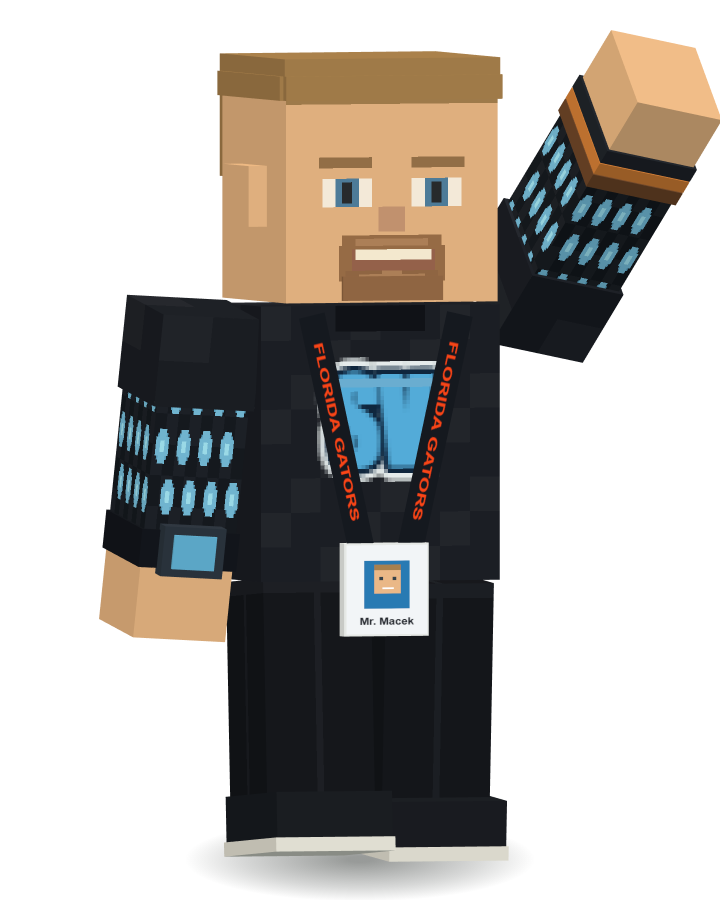
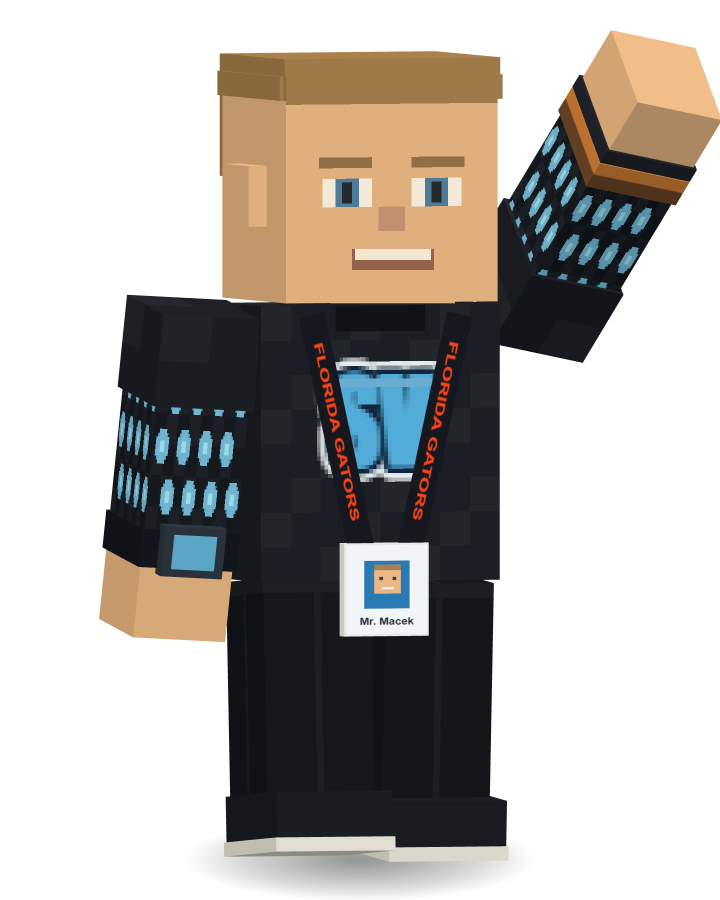
One professional look everywhere; Mr. Macek clean-shaven
The game's own title screen, Esc menu and play bar now match the main page:
the stone MYNECRAFT logo over the school, one dark glass panel with mode rows,
a gold PLAY beside a navy How to play, the six small teacher cards, quiet navy
for everything else, and one button style on the play bar (gold only for
Blocks and anything switched on). Phone (upright and sideways) and short-laptop
layouts included. IDs and JavaScript wiring are unchanged.

Mr. Macek has no beard: both face textures and both 3D chin pieces are removed,
and the lineup picture's chin is repainted to match.

Also commits the navy-and-gold inventory and main-page button edits and the
bookshelf recipe left uncommitted in this checkout earlier today.

Changed region(s): [[0.4583, 0.2489, 0.6417, 0.3422]]

diff --git a/game/start-menu.css b/game/start-menu.css
@@ -586,32 +586,37 @@ html body #start #tryStatus:empty { display: none; }
 /* Large, named block choices use the same textures as the world and hotbar. */
 #inventoryOverlay { position: fixed; inset: 0; z-index: 20; display: grid; place-items: center; padding: 16px; background: #071019d9; overflow-y: auto; }
 #inventoryOverlay[hidden] { display: none; }
-.inventory-sheet { box-sizing: border-box; width: min(780px, 100%); max-height: calc(100dvh - 32px); overflow-y: auto; padding: 24px; border: 1px solid #658aa7; border-radius: 16px; background: #1b2a36; color: #f4f8fc; box-shadow: 0 20px 80px #0008; font: 15px/1.45 system-ui, sans-serif; }
-.inventory-sheet h2 { margin: 0 0 6px; font-size: 28px; }
-.inventory-head { position: sticky; top: -24px; z-index: 2; display: flex; align-items: center; justify-content: space-between; gap: 12px; margin: -24px -24px 6px; padding: 18px 24px 8px; background: #1b2a36; border-radius: 16px 16px 0 0; }
+.inventory-sheet { box-sizing: border-box; width: min(840px, 100%); max-height: calc(100dvh - 32px); overflow-y: auto; padding: 24px; border: 2px solid #3a5673; border-radius: 18px; background: #101c27; color: #f4f8fc; box-shadow: 0 24px 80px rgba(0,0,0,.75); font: 15px/1.45 system-ui, sans-serif; }
+.inventory-sheet h2 { margin: 0 0 6px; font-size: 26px; font-weight: 800; letter-spacing: .02em; color: #ffd27a; }
+.inventory-head { position: sticky; top: -24px; z-index: 2; display: flex; align-items: center; justify-content: space-between; gap: 12px; margin: -24px -24px 10px; padding: 18px 24px 12px; background: #101c27; border-bottom: 1px solid #23374a; border-radius: 16px 16px 0 0; }
 .inventory-head h2 { margin: 0; }
-.inventory-close { flex: none; width: 48px; height: 48px; border: 2px solid #9cc5df; border-radius: 12px; background: #c4e5fa; color: #172d3c; font: 700 22px/1 system-ui, sans-serif; cursor: pointer; }
+.inventory-close { flex: none; width: 44px; height: 44px; border: 2px solid #fff1c4; border-bottom-width: 4px; border-radius: 12px; background: linear-gradient(180deg,#ffd27a,#f2b544); color: #1a1204; font: 800 20px/1 system-ui, sans-serif; cursor: pointer; transition: transform .1s; }
+.inventory-close:hover { filter: brightness(1.08); transform: translateY(-1px); }
+.inventory-close:active { transform: translateY(2px); border-bottom-width: 2px; }
 .inventory-close:focus-visible { outline: 3px solid #fff; outline-offset: 3px; }
-.inventory-sheet p { margin: 0 0 18px; color: #cbdce9; }
-.inventory-grid { display: grid; grid-template-columns: repeat(7, minmax(0, 1fr)); gap: 10px; }
-.inventory-choice { display: flex; flex-direction: column; align-items: center; justify-content: center; gap: 4px; min-height: 118px; padding: 8px 4px; border: 2px solid #536d81; border-radius: 10px; background: #293e4e; color: #f4f8fc; cursor: pointer; font: inherit; }
-.inventory-choice strong { font-size: 12px; }
-.inventory-count { color: #b3d7e9; font-size: 11px; }
-.inventory-choice:hover { border-color: #b9e1fa; background: #34536a; }
-.inventory-choice[aria-pressed="true"] { border-color: #a5e5b9; background: #264837; }
-.inventory-choice:disabled { opacity: .48; cursor: default; }
+.inventory-sheet p { margin: 0 0 16px; color: #cbdce9; font-size: 13.5px; }
+.inventory-grid { display: grid; grid-template-columns: repeat(7, minmax(0, 1fr)); gap: 8px; }
+.inventory-choice { display: flex; flex-direction: column; align-items: center; justify-content: center; gap: 4px; min-height: 110px; padding: 8px 4px; border: 2px solid #283e52; border-radius: 12px; background: #162737; color: #f4f8fc; cursor: pointer; font: inherit; transition: all .12s ease; }
+.inventory-choice strong { font-size: 11.5px; font-weight: 700; }
+.inventory-count { color: #8ec3df; font-size: 11px; font-weight: 600; }
+.inventory-choice:hover { border-color: #ffd27a; background: #20364c; transform: translateY(-2px); box-shadow: 0 4px 12px rgba(0,0,0,.35); }
+.inventory-choice[aria-pressed="true"] { border-color: #52c27b; background: #163625; box-shadow: 0 0 0 1px #52c27b; }
+.inventory-choice:disabled { opacity: .4; cursor: default; transform: none; }
 .inventory-choice:focus-visible, .inventory-back:focus-visible { outline: 3px solid #fff; outline-offset: 3px; }
-.inventory-sheet .inventory-hint { margin: 16px 0 12px; font-size: 13px; }
-.inventory-back { display: block; min-height: 44px; margin-left: auto; padding: 10px 18px; border: 1px solid #9cc5df; border-radius: 8px; background: #c4e5fa; color: #172d3c; font: 700 14px system-ui, sans-serif; cursor: pointer; }
-.crafting-panel,.animal-panel { margin: 18px 0; padding: 16px; border: 1px solid #709082; border-radius: 12px; background: #182f2e; }
+.inventory-sheet .inventory-hint { margin: 16px 0 12px; font-size: 12.5px; color: #a4c2d9; }
+.inventory-back { display: block; min-height: 44px; margin-left: auto; padding: 10px 20px; border: 2px solid #fff1c4; border-bottom-width: 4px; border-radius: 10px; background: linear-gradient(180deg,#ffd27a,#f2b544); color: #1a1204; font: 800 14px system-ui, sans-serif; cursor: pointer; }
+.inventory-back:hover { filter: brightness(1.08); transform: translateY(-1px); }
+.inventory-back:active { transform: translateY(2px); border-bottom-width: 2px; }
+.crafting-panel,.animal-panel { margin: 18px 0; padding: 16px; border: 1.5px solid #2a455c; border-radius: 14px; background: #132433; }
 .crafting-panel[hidden] { display: none; }
-.crafting-panel h3,.animal-panel h3 { margin: 0 0 6px; }
+.crafting-panel h3,.animal-panel h3 { margin: 0 0 6px; font-size: 16px; font-weight: 700; color: #eaf3fa; }
 .crafting-grid { display: grid; grid-template-columns: repeat(auto-fit,minmax(170px,1fr)); gap: 8px; }
-.craft-choice { min-height: 48px; padding: 10px; border: 1px solid #739b8c; border-radius: 8px; background: #274f43; color: #f1fff7; font: 600 13px/1.4 system-ui,sans-serif; text-align: left; cursor: pointer; }
-.craft-choice:disabled { opacity: .48; cursor: default; }
+.craft-choice { min-height: 48px; padding: 10px 12px; border: 1.5px solid #365773; border-radius: 10px; background: #1d354b; color: #f1fff7; font: 600 13px/1.4 system-ui,sans-serif; text-align: left; cursor: pointer; transition: all .12s; }
+.craft-choice:hover:not(:disabled) { border-color: #ffd27a; background: #264763; transform: translateY(-1px); }
+.craft-choice:disabled { opacity: .45; cursor: default; }
 .craft-choice:focus-visible { outline: 3px solid white; outline-offset: 2px; }
-.inventory-sheet #craftingStatus { margin: 12px 0 0; color: #b7efcd; }
-.inventory-sheet .inventory-tip { margin: 10px 0 0; font-size: 13px; color: #d9efe3; }
+.inventory-sheet #craftingStatus { margin: 12px 0 0; color: #94eab4; font-weight: 600; font-size: 13px; }
+.inventory-sheet .inventory-tip { margin: 10px 0 0; font-size: 12.5px; color: #a4c2d9; }
 /* The Little Library: big readable pages, chunky buttons, covers like real books. */
 #libraryOverlay { position: fixed; inset: 0; z-index: 30; display: grid; place-items: center; padding: 16px; background: #120d08e0; overflow-y: auto; }
 #libraryOverlay[hidden] { display: none; }
@@ -813,8 +818,8 @@ html body #hotbar {
 }
 html body #hotbar button { position:relative; flex:0 0 46px; width:46px; height:46px; display:flex; align-items:flex-end; justify-content:flex-end; color:#fff; font:700 11px Fredoka,system-ui,sans-serif; padding:2px; border:2px solid #7d96aa; border-radius:9px; background:#2b4052; box-shadow:inset 0 1px 0 #ffffff30; }
 html body #coordinates {
-  left:50% !important; bottom:91px !important; right:auto !important; top:auto !important;
-  transform:translateX(-50%) !important; padding:5px 12px; border:1px solid rgba(142,197,255,.35); border-radius:999px;
+  left:50% !important; bottom:80px !important; right:auto !important; top:auto !important;
+  transform:translateX(-50%) !important; padding:5px 14px; border:1px solid rgba(142,197,255,.35); border-radius:999px;
   background:#112233eb; color:#f4f7fa; text-align:center; max-width:calc(100vw - 30px);
   font:600 13px/1.4 Fredoka,system-ui,sans-serif; text-shadow:none;
 }
@@ -941,3 +946,149 @@ html body #start #howToPlay:not([open]) { display:none; }
 html body #start .menu-extra-content { padding:0 12px 12px; }
 html body #start .menu-extra-content > details { margin-top:10px; padding:10px; border:1px solid #4c6880; border-radius:10px; }
 html body #start .menu-extra-content summary { min-height:44px; display:flex; align-items:center; cursor:pointer; }
+
+/* ---- October 29: one look everywhere ----
+   Kenny: "make Minecraft professional looking". The game's own title screen, the
+   Esc menu and the play bar now match the main page: the stone MYNECRAFT logo over
+   the school, one dark glass panel, a gold PLAY, and quiet navy for everything else.
+   Gold means "the main thing" or "chosen"; markup IDs and controls are unchanged. */
+html body #start { background: linear-gradient(180deg, rgba(11, 26, 46, .28) 0%, rgba(11, 26, 46, .5) 34%, rgba(9, 21, 38, .9) 68%, #0b1a2e 100%), url("assets/ec-title-bg.jpg") center 30% / cover no-repeat, #0b1a2e; }
+html body #start:has(#staffChoices) .start-shell { width: min(600px, 100%); gap: 12px; }
+html body #start .hero-row { display: flex; flex-direction: column; align-items: stretch; gap: 10px; }
+
+/* The main page's logo: chunky stone letters, EC EDITION underneath, a yellow splash. */
+html body #start .hero-brand { position: relative; overflow: visible; align-self: center; width: fit-content; max-width: 100%; display: flex; flex-direction: column; align-items: center; gap: 4px; padding: 4px 0 2px; border: 0; border-radius: 0; background: none; box-shadow: none; text-align: center; }
+html body #start .hero-brand::before, html body #start .hero-brand::after { content: none; display: none; }
+html body #start .hero-brand .block-title { display: block; margin: 0; font: 400 clamp(40px, 7.2vw, 78px)/1 Bungee, Impact, sans-serif; letter-spacing: .03em; color: inherit; -webkit-text-stroke: 0; text-shadow: none; }
+html body #start .block-title .logo { position: relative; display: inline-block; isolation: isolate; padding: 0 .06em .16em; }
+html body #start .block-title .logo::before { content: attr(data-text); position: absolute; inset: 0 .06em .16em; z-index: -1; color: #2e2e2e; -webkit-text-stroke: .1em #121212; text-shadow: 0 .035em 0 #3b3b3b, 0 .07em 0 #333, 0 .105em 0 #2b2b2b, 0 .14em 0 #222, 0 .2em .16em rgba(0, 0, 0, .55); }
+html body #start .block-title .face { display: block; color: transparent; background: repeating-conic-gradient(rgba(0, 0, 0, .07) 0 25%, rgba(255, 255, 255, .05) 0 50%) 0 0 / .12em .12em, linear-gradient(180deg, #f4f4f4 0%, #dadada 24%, #bcbcbc 50%, #9e9e9e 74%, #858585 100%); -webkit-background-clip: text; background-clip: text; -webkit-text-stroke: .03em #1a1a1a; }
+html body #start .hero-brand .edition { margin: 0; padding: 0 0 0 .34em; border: 0; border-radius: 0; background: none; color: #f1efe8; font: 400 clamp(14px, 1.7vw, 19px)/1 Bungee, Impact, sans-serif; letter-spacing: .34em; text-shadow: 0 2px 0 #151515, 0 0 12px rgba(0, 0, 0, .6); }
+html body #start .hero-brand .hero-tagline { position: absolute; left: 76%; top: 60%; display: block; margin: 0; padding: 0; border: 0; border-radius: 0; background: none; box-shadow: none; color: #ffff4f; font: 700 clamp(13px, 1.5vw, 19px)/1.1 Fredoka, system-ui, sans-serif; white-space: nowrap; text-shadow: 2px 2px 0 #3f3f12, 0 0 8px rgba(0, 0, 0, .45); transform: rotate(-14deg); transform-origin: 0 50%; animation: mc-splash 1.1s ease-in-out infinite alternate; pointer-events: none; }
+@keyframes mc-splash { from { transform: rotate(-14deg) scale(1); } to { transform: rotate(-14deg) scale(1.07); } }
+@media (prefers-reduced-motion: reduce) { html body #start .hero-brand .hero-tagline { animation: none; } }
+
+/* One dark glass panel: the question, three mode rows, PLAY beside How to play. */
+html body #start .hero-play { display: grid; grid-template-columns: minmax(0, 1.35fr) minmax(0, 1fr); gap: 8px 12px; align-content: start; padding: clamp(12px, 1.8vw, 18px); border: 2px solid rgba(154, 216, 255, .35); border-radius: 24px; background: linear-gradient(180deg, rgba(14, 32, 56, .92), rgba(9, 21, 38, .96)); backdrop-filter: blur(14px); -webkit-backdrop-filter: blur(14px); box-shadow: 0 26px 64px rgba(0, 0, 0, .6), inset 0 1px 0 rgba(255, 255, 255, .18); }
+html body #start .hero-play > * { grid-column: 1 / -1; }
+html body #start .hero-play > #enter { grid-column: 1; }
+html body #start .hero-play > #howToPlayOpen { grid-column: 2; }
+html body #start .hero-step { margin: 0; color: #ffd27a; font: 600 18px/1.2 Fredoka, system-ui, sans-serif; letter-spacing: .02em; text-align: center; }
+html body #start .mode-cards { display: flex; flex-direction: column; gap: 6px; }
+html body #start .mode-card { display: grid; grid-template-columns: 50px minmax(0, 1fr) 32px; grid-template-areas: "icon title go" "icon sub go"; column-gap: 12px; row-gap: 1px; align-items: center; justify-items: start; min-height: 60px; padding: 6px 12px; border: 3px solid #4a6a86; border-bottom-width: 5px; border-radius: 16px; background: rgba(29, 51, 70, .94); color: #f4f1e8; text-align: left; font-family: Fredoka, system-ui, sans-serif; cursor: pointer; transition: background-color .15s, border-color .15s, transform .15s; }
+html body #start .mode-card .icon { grid-area: icon; display: grid; place-items: center; width: 48px; height: 48px; border-radius: 12px; background: #0e2238; font-size: 0; }
+html body #start .mode-card .icon svg { display: block; width: 34px; height: 34px; }
+html body #start .mode-card strong { grid-area: title; align-self: end; font: 700 20px/1.1 Fredoka, system-ui, sans-serif; }
+html body #start .mode-card small { grid-area: sub; align-self: start; color: #b9cfe0; font: 600 13.5px/1.15 Fredoka, system-ui, sans-serif; }
+html body #start .mode-card::after { content: "›"; grid-area: go; display: grid; place-items: center; width: 30px; height: 30px; border-radius: 50%; color: #9cc0dc; font: 700 20px/1 Fredoka, system-ui, sans-serif; }
+html body #start .mode-card[aria-checked="true"] { background: #ffd27a; border-color: #fff1b8; border-bottom-color: #b98a20; color: #142b42; }
+html body #start .mode-card[aria-checked="true"] .icon { background: #fff3cf; }
+html body #start .mode-card[aria-checked="true"] small { color: #3d2f0c; }
+html body #start .mode-card[aria-checked="true"]::after { content: "✓"; background: #142b42; color: #ffd27a; font-size: 18px; }
+html body #start .mode-card:focus-visible { outline: 3px solid #fff; outline-offset: 3px; }
+@media (hover: hover) { html body #start .mode-card:hover { transform: translateY(-2px); } html body #start .mode-card:hover:not([aria-checked="true"]) { background: #26445c; border-color: #8fd3ff; } }
+html body #start .mode-card:active { transform: translateY(1px); }
+html body #start .hero-play #enter { display: flex; align-items: center; justify-content: center; gap: 12px; min-height: 68px; margin: 4px 0 0; border: 3px solid #fff1c4; border-radius: 18px; background: linear-gradient(180deg, #ffd27a, #f2b544); color: #1a1405; font: 400 clamp(24px, 3.2vw, 34px)/1 Bungee, Impact, sans-serif; letter-spacing: .08em; box-shadow: 0 8px 0 #9a6a12, 0 18px 34px rgba(242, 181, 68, .35); transition: transform .12s, box-shadow .12s; }
+html body #start .hero-play #enter:hover { background: linear-gradient(180deg, #ffd27a, #f2b544); transform: translateY(-2px); box-shadow: 0 10px 0 #9a6a12, 0 22px 40px rgba(242, 181, 68, .45); }
+html body #start .hero-play #enter:active { transform: translateY(5px); box-shadow: 0 3px 0 #9a6a12, 0 10px 20px rgba(242, 181, 68, .3); }
+html body #start .howto-open { display: flex; align-items: center; justify-content: center; gap: 10px; min-height: 68px; margin: 4px 0 0; border: 3px solid #648fb5; border-radius: 18px; background: linear-gradient(180deg, #1b385c, #10243e); color: #f0f7ff; font: 700 clamp(17px, 2vw, 21px)/1.1 Fredoka, system-ui, sans-serif; letter-spacing: .02em; box-shadow: 0 8px 0 #091729, 0 14px 28px rgba(0, 0, 0, .45); animation: none; transition: transform .12s; }
+html body #start .howto-open .q { flex: none; display: grid; place-items: center; width: 30px; height: 30px; border-radius: 50%; background: #ffd27a; color: #10243e; font: 700 18px Fredoka, system-ui, sans-serif; }
+html body #start .howto-open:hover { background: linear-gradient(180deg, #1b385c, #10243e); border-color: #8ec0ea; color: #fff; filter: brightness(1.08); transform: translateY(-2px); }
+html body #start .howto-open:active { transform: translateY(5px); box-shadow: 0 2px 0 #091729; }
+html body #start .playing-as { justify-content: center; margin: 4px 0 0; color: #d7ecff; font: 600 14px/1.2 Fredoka, system-ui, sans-serif; }
+html body #start .link-button { min-height: 34px; padding: 4px 14px; border: 2px solid rgba(154, 216, 255, .45); border-radius: 999px; background: rgba(21, 44, 70, .92); color: #e6f2ff; font: 700 13.5px Fredoka, system-ui, sans-serif; cursor: pointer; }
+html body #start .link-button:hover { border-color: #ffd27a; color: #fff; }
+html body #start .hero-play #startTip, html body #start .hero-play #modeHelp { margin: 0; color: #c2cbd9; font: 500 13px/1.35 Fredoka, system-ui, sans-serif; text-align: center; }
+body.has-played #start .hero-play .hero-mode { color: #ffd27a; font: 600 15px Fredoka, system-ui, sans-serif; }
+html body #start .hero-mode select { min-height: 44px; padding: 6px 12px; border: 2px solid #4a6a86; border-radius: 12px; background: #13283f; color: #f4f1e8; font: 600 15px Fredoka, system-ui, sans-serif; }
+
+/* Teachers: the main page's six small cards, gold when chosen. */
+html body #start .start-character-panel { padding: 0; border: 2px solid rgba(154, 216, 255, .35); border-radius: 20px; background: linear-gradient(180deg, rgba(14, 32, 56, .92), rgba(9, 21, 38, .96)); backdrop-filter: blur(14px); -webkit-backdrop-filter: blur(14px); box-shadow: 0 18px 44px rgba(0, 0, 0, .5), inset 0 1px 0 rgba(255, 255, 255, .14); }
+html body #start .start-character-panel > summary { padding: 10px 16px; color: #f4f1e8; font: 700 16px/1.2 Fredoka, system-ui, sans-serif; }
+html body #start .start-character-panel > summary span { color: #ffd27a; font: 600 13px Fredoka, system-ui, sans-serif; }
+html body #start #characterPanel > h2, html body #start #characterPanel > .character-note { display: none; }
+html body #start #staffChoices { grid-template-columns: repeat(6, minmax(0, 1fr)); gap: 6px; }
+html body #start .staff-choice { position: relative; display: flex; flex-direction: column; align-items: center; gap: 2px; padding: 4px 3px 6px; border: 2px solid rgba(132, 184, 224, .32); border-bottom-width: 4px; border-radius: 11px; background: rgba(21, 42, 66, .92); box-shadow: none; text-align: center; cursor: pointer; transition: transform .14s, border-color .14s, background-color .14s; }
+html body #start .staff-preview { width: auto; height: 74px; max-width: 100%; border: 1px solid rgba(173, 218, 250, .22); border-radius: 7px; background: radial-gradient(circle at 50% 35%, rgba(120, 198, 255, .24), rgba(9, 22, 38, .92)); }
+html body #start .staff-choice-name { display: block; max-width: 100%; }
+html body #start .staff-choice-name input { position: absolute; width: 1px; height: 1px; margin: 0; opacity: 0; }
+html body #start .staff-choice-name strong { display: block; max-width: 100%; overflow: hidden; color: #f4f9ff; font: 700 11.5px/1.15 Fredoka, system-ui, sans-serif; white-space: nowrap; text-overflow: ellipsis; }
+html body #start .staff-role { align-self: center; padding: 1px 6px; border: 0; border-radius: 999px; background: rgba(127, 226, 255, .16); color: #9be4ff; font: 700 9.5px/1.2 Fredoka, system-ui, sans-serif; letter-spacing: 0; }
+html body #start .staff-choice small { display: none; }
+html body #start .staff-choice:has(input:checked) { border-color: #fff5cc; border-bottom-color: #9e6d12; background: linear-gradient(180deg, #ffe49e, #f3b948); box-shadow: none; transform: translateY(-2px); }
+html body #start .staff-choice:has(input:checked) .staff-preview { border-color: rgba(20, 43, 66, .3); background: radial-gradient(circle at 50% 35%, rgba(255, 250, 224, .88), rgba(32, 64, 98, .9)); }
+html body #start .staff-choice:has(input:checked) .staff-choice-name strong { color: #142538; }
+html body #start .staff-choice:has(input:checked) .staff-role { background: #142538; color: #ffd875; }
+html body #start .staff-choice:has(input:focus-visible) { outline: 3px solid #fff; outline-offset: 2px; }
+@media (hover: hover) { html body #start .staff-choice:hover { transform: translateY(-2px); border-color: #9be4ff; background: rgba(27, 52, 80, .95); } html body #start .staff-choice:has(input:checked):hover { background: linear-gradient(180deg, #ffe49e, #f3b948); border-color: #fff5cc; } }
+html body #start:has(#staffChoices) #identityStatus { margin: 6px 0 10px; color: #d7ecff; font: 600 12.5px/1.2 Fredoka, system-ui, sans-serif; text-align: center; }
+
+/* Everything else: quiet navy rows and tiles, so the gold PLAY stays the one thing to press. */
+html body #start .quick-steps { gap: 8px; }
+html body #start .quick-step { padding: 10px 6px; border: 2px solid rgba(132, 184, 224, .28); border-bottom-width: 4px; border-radius: 14px; background: rgba(13, 30, 52, .88); box-shadow: none; color: #d7e6f3; font: 500 12.5px/1.3 Fredoka, system-ui, sans-serif; }
+html body #start .quick-step .quick-icon { font-size: 22px; }
+html body #start .quick-step strong { color: #ffd27a; font: 700 14px/1.1 Fredoka, system-ui, sans-serif; letter-spacing: .02em; }
+html body #start .menu-fold, html body #start .start-more > details, html body #start .start-more > details.how-to-play { border: 2px solid rgba(132, 184, 224, .3); border-bottom-width: 4px; border-radius: 16px; background: rgba(13, 30, 52, .9); box-shadow: 0 10px 26px rgba(0, 0, 0, .32); }
+html body #start .menu-fold > summary, html body #start .start-more > details > summary, html body #start .start-more > details.how-to-play > summary { min-height: 48px; padding: 10px 16px; border-radius: 14px; background: none; color: #f4f1e8; font: 700 16px/1.2 Fredoka, system-ui, sans-serif; }
+html body #start .menu-fold > summary span { color: #ffd27a; }
+html body #start .try-panel { padding: 0; }
+html body #start .try-grid { grid-template-columns: repeat(auto-fill, minmax(120px, 1fr)); gap: 8px; }
+html body #start .try-choice { min-height: 96px; padding: 10px; border: 2px solid rgba(132, 184, 224, .32); border-bottom-width: 4px; border-radius: 14px; background: rgba(21, 42, 66, .92); color: #f4f1e8; }
+html body #start .try-choice:hover { background: rgba(27, 52, 80, .95); border-color: #9be4ff; }
+html body #start .try-choice span { font-size: 26px; }
+html body #start .try-choice small { color: #b9cfe0; }
+
+/* The play bar: one button style, gold only for Blocks and for what is switched on. */
+html body #controls { border: 2px solid rgba(154, 216, 255, .3); border-radius: 18px; background: rgba(9, 21, 38, .88); backdrop-filter: blur(12px); -webkit-backdrop-filter: blur(12px); box-shadow: 0 10px 28px rgba(0, 0, 0, .45); }
+html body #controls #menuToggle, html body #controls #saveGame, html body #controls #helpToggle, html body #controls #flyToggle, html body #controls #questToggle, html body #controls #viewToggle { border: 2px solid rgba(132, 184, 224, .4); border-bottom-width: 4px; border-bottom-color: #0b1a2e; border-radius: 12px; background: linear-gradient(180deg, #1b385c, #13283f); color: #eef6ff; box-shadow: none; }
+html body #controls #flyToggle[aria-pressed="true"], html body #controls #questToggle[aria-pressed="true"] { border-color: #ffd27a; border-bottom-color: #9a6a12; background: linear-gradient(180deg, #24476f, #183552); color: #ffd27a; box-shadow: none; }
+html body #controls #inventoryToggle { border: 2px solid #fff1c4; border-bottom-width: 4px; border-bottom-color: #9a6a12; background: linear-gradient(180deg, #ffd27a, #f2b544); color: #1a1405; }
+html body #controls button:hover { filter: brightness(1.12); }
+html body #controls #saveStateIndicator { color: #b9d6c8; }
+html body #info { border: 1px solid rgba(154, 216, 255, .28); background: rgba(9, 21, 38, .82); color: #dbe8f5; }
+html body #hotbar { border: 2px solid rgba(154, 216, 255, .3); background: rgba(9, 21, 38, .88); }
+
+/* Phones: the panel stacks PLAY over How to play, and the teacher row wraps to three. */
+@media (max-width: 520px) {
+  html body #start .hero-play { grid-template-columns: 1fr; }
+  html body #start .hero-play > #enter, html body #start .hero-play > #howToPlayOpen { grid-column: 1; }
+  html body #start .hero-play #enter { min-height: 58px; }
+  html body #start .howto-open { min-height: 50px; }
+  html body #start .hero-brand .hero-tagline { left: 50%; top: 92%; transform: translateX(-50%) rotate(-4deg); animation: none; }
+  html body #start #staffChoices { grid-template-columns: repeat(3, minmax(0, 1fr)); }
+  html body #start .mode-card { min-height: 54px; }
+}
+/* Short laptop screens: a little tighter so PLAY stays in view without scrolling. */
+@media (max-height: 840px) and (min-width: 521px) {
+  html body #start .hero-brand .block-title { font-size: clamp(36px, 5.6vw, 64px); }
+  html body #start .mode-card { min-height: 54px; padding: 4px 12px; }
+  html body #start .mode-card .icon { width: 42px; height: 42px; }
+  html body #start .mode-card .icon svg { width: 30px; height: 30px; }
+  html body #start .hero-play #enter, html body #start .howto-open { min-height: 58px; }
+  html body #start .hero-play #startTip { display: none; }
+}
+/* The older ".start-header p" rule is more specific, so the panel's text lines restate their look here. */
+html body #start .start-header p.hero-step { max-width: none; margin: 0; color: #ffd27a; font: 600 18px/1.2 Fredoka, system-ui, sans-serif; letter-spacing: .02em; text-align: center; }
+html body #start .start-header p.hero-tagline { max-width: none; margin: 0; color: #ffff4f; font: 700 clamp(13px, 1.5vw, 19px)/1.1 Fredoka, system-ui, sans-serif; text-align: left; }
+html body #start .start-header p.playing-as { max-width: none; margin: 4px 0 0; color: #d7ecff; font: 600 14px/1.2 Fredoka, system-ui, sans-serif; text-align: center; }
+/* Phones: the splash sits on its own line under EC EDITION instead of over it. */
+@media (max-width: 520px) { html body #start .start-header p.hero-tagline { position: static; margin: 2px 0 0; transform: rotate(-3deg); animation: none; font-size: 15px; } }
+/* Phones held sideways: a smaller logo and the three modes side by side, so PLAY fits on screen. */
+@media (max-height: 500px) and (min-width: 521px) {
+  html body #start .hero-brand .block-title { font-size: 34px; }
+  html body #start .hero-brand .edition { font-size: 11px; }
+  html body #start .start-header p.hero-tagline { font-size: 12px; }
+  html body #start .hero-play { gap: 6px 10px; padding: 10px 12px; }
+  html body #start .start-header p.hero-step { font-size: 15px; }
+  html body #start .mode-cards { display: grid; grid-template-columns: repeat(3, minmax(0, 1fr)); gap: 6px; }
+  html body #start .mode-card { grid-template-columns: 34px minmax(0, 1fr); grid-template-areas: "icon title" "icon sub"; column-gap: 8px; min-height: 48px; padding: 4px 8px; border-width: 2px; border-bottom-width: 4px; border-radius: 12px; }
+  html body #start .mode-card::after { display: none; }
+  html body #start .mode-card .icon { width: 32px; height: 32px; border-radius: 8px; }
+  html body #start .mode-card .icon svg { width: 24px; height: 24px; }
+  html body #start .mode-card strong { font-size: 15px; }
+  html body #start .mode-card small { font-size: 11px; }
+  html body #start .hero-play #enter, html body #start .howto-open { min-height: 48px; margin-top: 2px; }
+  html body #start .hero-play #enter { font-size: 22px; box-shadow: 0 5px 0 #9a6a12; }
+  html body #start .howto-open { font-size: 16px; box-shadow: 0 5px 0 #091729; }
+  html body #start .hero-play #startTip, html body #start .hero-play #modeHelp { display: none; }
+}

diff --git a/game/mynecraft.html b/game/mynecraft.html
@@ -74,7 +74,7 @@
   #sleepTransition strong { font-size: clamp(28px, 5vw, 48px); }
   #sleepTransition p { color: #c8dcff; font-size: 18px; }
   #sleepTransition .sleep-moon { font-size: 64px; color: #ffe5a5; }
-  #activityInteract { position: fixed; z-index: 8; left: 50%; bottom: 92px; transform: translateX(-50%); min-height: 44px; padding: 10px 18px; border: 2px solid #132d47; border-radius: 8px; background: #f8d778; color: #142b42; font: 800 14px system-ui, sans-serif; cursor: pointer; }
+  #activityInteract { position: fixed; z-index: 8; left: 50%; bottom: 140px; transform: translateX(-50%); min-height: 44px; padding: 10px 18px; border: 2px solid #132d47; border-radius: 8px; background: #f8d778; color: #142b42; font: 800 14px system-ui, sans-serif; cursor: pointer; box-shadow: 0 4px 12px rgba(0,0,0,0.4); }
   #activityInteract[hidden], #btnInteract[hidden], body.touch-device #activityInteract { display: none; }
   #btnInteract { min-height: 52px; background: #f8d778; color: #142b42; max-width: 180px; }
   .pixel { image-rendering: pixelated; }
@@ -225,7 +225,7 @@
 .travel input{width:84px;padding:8px;border-radius:4px;font:16px system-ui;min-height:40px;box-sizing:border-box}
 .travel form button{min-height:40px}.travel summary{cursor:pointer;color:#90c5ec}.travel p{font-size:12px!important;margin:8px 0!important}
 </style>
-<link rel="stylesheet" href="start-menu.css?v=ui-20261029">
+<link rel="stylesheet" href="start-menu.css?v=ui-20261029-onelook4">
 </head>
 <body>
 <div id="hud"><div id="crosshair"></div></div>
@@ -255,16 +255,16 @@
     <header class="start-header start-hero">
       <div class="hero-row">
         <div class="hero-brand">
-          <h1 class="start-brand block-title" aria-label="MYnecraft">MYNECRAFT</h1>
+          <h1 class="start-brand block-title" aria-label="MYnecraft"><span class="logo" data-text="MYNECRAFT" aria-hidden="true"><span class="face">MYNECRAFT</span></span></h1>
           <p class="edition">EC EDITION</p>
-          <p class="hero-tagline">Your ideas. Your school. Your world.</p>
+          <p class="hero-tagline">Your school, built from blocks.</p>
         </div>
         <div class="hero-play">
           <p class="hero-step" id="modeTitle">How do you want to play?</p>
           <div class="mode-cards" role="radiogroup" aria-labelledby="modeTitle">
-            <button type="button" class="mode-card" data-mode="creative" role="radio" aria-checked="true"><span aria-hidden="true">🎨</span><strong>Creative</strong><small>Build anything</small></button>
-            <button type="button" class="mode-card" data-mode="survival" role="radio" aria-checked="false"><span aria-hidden="true">🌳</span><strong>Challenge</strong><small>Collect &amp; build</small></button>
-            <button type="button" class="mode-card" data-mode="hardcore" role="radio" aria-checked="false"><span aria-hidden="true">⛏</span><strong>Hardcore</strong><small>Craft &amp; unlock</small></button>
+            <button type="button" class="mode-card" data-mode="creative" role="radio" aria-checked="true"><span class="icon" aria-hidden="true"><svg viewBox="0 0 16 16" shape-rendering="crispEdges"><path fill="#241708" d="M1 0h14v1H1zM0 1h1v14H0zM15 1h1v14h-1zM1 15h14v1H1z"/><path fill="#8b5a34" d="M1 1h14v14H1z"/><path fill="#6e4526" d="M3 8h1v1H3zM6 10h2v1H6zM10 8h1v1h-1zM12 11h1v1h-1zM4 12h1v1H4zM9 13h2v1H9zM13 7h1v1h-1z"/><path fill="#5cbf3a" d="M1 1h14v4H1zM1 5h2v1H1zM4 5h1v2H4zM7 5h2v1H7zM11 5h1v2h-1zM13 5h2v1h-2z"/><path fill="#86e05a" d="M1 1h14v1H1zM2 2h2v1H2zM9 2h3v1H9z"/></svg></span><strong>Creative</strong><small>Build anything</small></button>
+            <button type="button" class="mode-card" data-mode="survival" role="radio" aria-checked="false"><span class="icon" aria-hidden="true"><svg viewBox="0 0 16 16" shape-rendering="crispEdges"><path fill="#1f5a22" d="M4 0h8v1H4zM2 1h2v1H2zM12 1h2v1h-2zM1 2h1v1H1zM14 2h1v1h-1zM0 3h1v5H0zM15 3h1v5h-1zM1 8h1v1H1zM14 8h1v1h-1zM2 9h2v1H2zM12 9h2v1h-2zM4 10h3v1H4zM9 10h3v1H9z"/><path fill="#3f9b3a" d="M4 1h8v1H4zM2 2h12v1H2zM1 3h14v5H1zM2 8h12v1H2zM4 9h8v1H4z"/><path fill="#62c24f" d="M4 2h3v1H4zM2 3h3v2H2zM9 3h2v1H9zM6 5h2v1H6z"/><path fill="#2c7a2e" d="M11 6h3v2h-3zM6 8h4v1H6zM3 7h2v1H3z"/><path fill="#7a4c2b" d="M7 10h2v5H7zM6 14h4v1H6z"/><path fill="#5a361d" d="M8 10h1v4H8z"/></svg></span><strong>Challenge</strong><small>Collect &amp; build</small></button>
+            <button type="button" class="mode-card" data-mode="hardcore" role="radio" aria-checked="false"><span class="icon" aria-hidden="true"><svg viewBox="0 0 16 16" shape-rendering="crispEdges"><path fill="#3b2412" d="M1 13h3v3H1zM2 12h3v3H2zM3 11h3v3H3zM4 10h3v3H4zM5 9h3v3H5zM6 8h3v3H6zM7 7h3v3H7zM8 6h3v3H8z"/><path fill="#a8713f" d="M2 13h1v2H2zM3 12h1v2H3zM4 11h1v2H4zM5 10h1v2H5zM6 9h1v2H6zM7 8h1v2H7zM8 7h1v2H8zM9 6h1v2H9z"/><path fill="#1d5f66" d="M4 0h8v1H4zM3 1h1v1H3zM12 1h1v1h-1zM2 2h1v2H2zM13 2h1v2h-1zM1 4h1v4H1zM14 4h1v4h-1zM2 4h3v1H2zM11 4h3v1h-3zM3 5h2v1H3zM11 5h2v1h-2z"/><path fill="#6fd3da" d="M4 1h8v3H4zM3 2h1v2H3zM12 2h1v2h-1zM2 5h1v3H2zM13 5h1v3h-1zM5 4h1v1H5zM10 4h1v1h-1z"/><path fill="#c6f3f5" d="M5 1h4v1H5zM3 2h1v1H3z"/></svg></span><strong>Hardcore</strong><small>Craft &amp; unlock</small></button>
           </div>
           <label class="hero-mode">Game mode <select id="mode"><option value="creative">Creative · build anything</option><option value="survival">Embrace the Challenge</option><option value="hardcore">Embrace the Challenge: Hardcore</option></select></label>
           <button class="btn" id="enter" type="button">▶ PLAY</button>
@@ -2367,10 +2367,7 @@ function faceForPerson(style){
       ctx.fillStyle='#eab887';ctx.fillRect(0,0,64,64);
       // One clean, straight hairline across the whole face: no side pieces hanging lower.
       ctx.fillStyle='#a68050';ctx.fillRect(0,0,64,8);
-      // Sandy-brown mustache and connected chin goatee framing his smile.
-      ctx.fillStyle='#9e714b';ctx.fillRect(17,45,30,4);ctx.fillRect(16,48,4,10);ctx.fillRect(44,48,4,10);
-      ctx.fillStyle='#966a47';ctx.fillRect(18,55,28,8);
-      ctx.fillStyle='#b5865e';ctx.fillRect(21,46,22,2);ctx.fillRect(22,56,20,5);ctx.fillRect(29,54,6,3);
+      // Kenny, Oct 29: no beard at all, so the chin and upper lip are plain skin.
       // The same flat face as the other teachers (brows, eyes, nose and smile all in the
       // same places), with Mr. Macek's own blue eyes. Nothing sticks out of the face.
       teacherFeatures(ctx,{brow:'#9a744c',iris:'#5181a3'});
@@ -2466,11 +2463,7 @@ function staffLook(style){
     ctx.fillStyle=isMacek?'#5181a3':isArt?'#4e7d44':style==='mcmichael'?'#4f6e82':'#453f37';ctx.fillRect(15,29,7,8);ctx.fillRect(42,29,7,8);
     ctx.fillStyle='#292d30';ctx.fillRect(17,30,3,6);ctx.fillRect(44,30,3,6);
     ctx.fillStyle='#cb9876';ctx.fillRect(28,37,8,7);
-    if(isMacek){
-      ctx.fillStyle='#9e714b';ctx.fillRect(17,45,30,4);ctx.fillRect(16,48,4,10);ctx.fillRect(44,48,4,10);
-      ctx.fillStyle='#966a47';ctx.fillRect(18,55,28,8);
-      ctx.fillStyle='#b5865e';ctx.fillRect(21,46,22,2);ctx.fillRect(22,56,20,5);ctx.fillRect(29,54,6,3);
-    }
+    // Mr. Macek has no beard (Kenny, Oct 29), so his chin stays plain skin here too.
     if(isMusic){
       ctx.fillStyle='#3a2e25';ctx.fillRect(7,43,50,18);ctx.fillRect(4,37,7,15);ctx.fillRect(53,37,7,15);
       ctx.fillStyle='#4b3c31';ctx.fillRect(15,44,34,4);ctx.fillRect(20,56,24,4);
@@ -2560,7 +2553,6 @@ function styleStaffPerson(npc,style){
     part(hair,'short back',.52,.25,.035,look.hair,0,1.807,-.25);
     // Sides end level with the front edge, so the hairline is one straight line all round.
     for(const side of [-1,1])part(hair,'short side',.025,.065,.46,look.hair,side*.265,1.90,0);
-    part(npc.group,'goatee chin',.25,.06,.03,0x966a47,0,1.405,.235);
   }else if(isPE){
     // A full short cut with a clean, straight front edge (no receding pieces).
     part(hair,'full short crown',.56,.06,.49,look.hair,0,1.94,0);
@@ -2966,7 +2958,6 @@ function stylePerson(npc,style){
     part(.55,.26,.03,0xa7804e,0,1.78,-.255);
     // The sides stop at the same height as the front edge: one straight hairline all round.
     for(const side of [-1,1])part(.025,.06,.49,0xa7804e,side*.277,1.88,0);
-    part(.26,.06,.03,0x966a47,0,1.385,.245);
     // Solid black trousers to match the black SV shirt. Drawn like the shirts
     // (sRGB colour), so they render truly black instead of washed-out gray.
     macekBlackPants??=outfitTexture(ctx=>{ctx.fillStyle='#16181d';ctx.fillRect(0,0,64,64);ctx.fillStyle='#1e2127';ctx.fillRect(0,0,64,4);ctx.fillRect(30,4,4,60);});
@@ -5023,7 +5014,7 @@ function flashSaved(){
 const flyTag = document.createElement('div');
 flyTag.setAttribute('role','status');
 flyTag.style.cssText = `
-  position: fixed; bottom: 82px; left: 50%; transform: translateX(-50%);
+  position: fixed; bottom: 110px; left: 50%; transform: translateX(-50%);
   background: #102a1c; color: #8fffa8; border: 2px solid #000;
   border-radius: 6px; padding: 8px 16px; font: 700 13px ui-monospace, monospace;
   box-shadow: 3px 3px 0 #0006; opacity: 0; transition: opacity .25s; pointer-events: none; z-index: 6;

diff --git a/index.html b/index.html
@@ -83,8 +83,8 @@ h2,h3{font-family:Bungee,Impact,sans-serif;font-weight:400;letter-spacing:.01em;
 .ts-grid{display:grid;grid-template-columns:repeat(6,minmax(0,1fr));gap:6px}
 .ts-card{position:relative;display:flex;flex-direction:column;align-items:center;gap:2px;padding:4px 3px 5px;border:2px solid rgba(132,184,224,.32);border-bottom-width:4px;border-radius:11px;background:rgba(21,42,66,.92);cursor:pointer;transition:transform .14s,border-color .14s,background-color .14s;-webkit-tap-highlight-color:transparent}
 .ts-card input{position:absolute;opacity:0;width:1px;height:1px;margin:0}
-.ts-pic{width:100%;height:46px;border-radius:7px;overflow:hidden;background:radial-gradient(circle at 50% 35%,rgba(120,198,255,.32),rgba(9,22,38,.92));border:1px solid rgba(173,218,250,.22)}
-.ts-pic img{display:block;width:100%;height:190%;object-fit:cover;object-position:50% 4%;filter:saturate(1.06)}
+.ts-pic{width:100%;height:46px;border-radius:7px;overflow:hidden;background:radial-gradient(circle at 50% 35%,rgba(120,198,255,.24),rgba(9,22,38,.92));border:1px solid rgba(173,218,250,.22);display:flex;align-items:flex-end;justify-content:center}
+.ts-pic img{display:block;width:auto;height:100%;object-fit:contain;filter:saturate(1.06) drop-shadow(0 2px 4px rgba(0,0,0,.4))}
 .ts-name{display:block;font:700 11px/1.1 var(--kid);color:#f4f9ff;white-space:nowrap;overflow:hidden;text-overflow:ellipsis;max-width:100%}
 .ts-role{display:inline-block;padding:1px 5px;border-radius:999px;background:rgba(127,226,255,.16);color:#9be4ff;font:700 9.5px/1.15 var(--kid)}
 .ts-card:has(input:checked){background:linear-gradient(180deg,#ffe49e,#f3b948);border-color:#fff5cc;border-bottom-color:#9e6d12;transform:translateY(-2px)}
@@ -135,10 +135,10 @@ h2,h3{font-family:Bungee,Impact,sans-serif;font-weight:400;letter-spacing:.01em;
 .play:hover{color:#1a1405;transform:translateY(-2px);box-shadow:0 10px 0 #9a6a12,0 22px 40px rgba(242,181,68,.45)}
 .play:active{transform:translateY(5px);box-shadow:0 3px 0 #9a6a12,0 10px 20px rgba(242,181,68,.3)}
 /* How to play: a big second button nobody can miss. */
-.howto-btn{display:flex;align-items:center;justify-content:center;gap:8px;margin-top:0;width:100%;min-height:68px;border-radius:18px;text-decoration:none;background:linear-gradient(180deg,#5fe0a4,#2fb47a);color:#062b1a;font:700 clamp(18px,2.2vw,22px)/1.1 var(--kid);letter-spacing:.01em;border:3px solid #c9ffe4;box-shadow:0 8px 0 #1d7a50,0 14px 28px rgba(47,180,122,.32);transition:transform .12s}
-.howto-btn .q{display:grid;place-items:center;width:30px;height:30px;border-radius:50%;background:#062b1a;color:#5fe0a4;font:700 20px var(--kid);flex:none}
-.howto-btn:hover{color:#062b1a;filter:brightness(1.06);transform:translateY(-2px)}
-.howto-btn:active{transform:translateY(5px);box-shadow:0 2px 0 #1d7a50}
+.howto-btn{display:flex;align-items:center;justify-content:center;gap:10px;margin-top:0;width:100%;min-height:68px;border-radius:18px;text-decoration:none;background:linear-gradient(180deg,#1b385c,#10243e);color:#f0f7ff;font:700 clamp(18px,2.2vw,22px)/1.1 var(--kid);letter-spacing:.02em;border:3px solid #648fb5;box-shadow:0 8px 0 #091729,0 14px 28px rgba(0,0,0,.45);transition:transform .12s}
+.howto-btn .q{display:grid;place-items:center;width:30px;height:30px;border-radius:50%;background:#ffd27a;color:#10243e;font:700 18px var(--kid);flex:none}
+.howto-btn:hover{color:#fff;border-color:#8ec0ea;filter:brightness(1.08);transform:translateY(-2px)}
+.howto-btn:active{transform:translateY(5px);box-shadow:0 2px 0 #091729}
 .save{margin:10px 0 0;font:500 13px var(--kid);color:var(--muted)}
 /* First time playing? A gentle, visible pulse draws attention without moving the
    layout. Hover/focus holds it steady; reduced-motion settings disable it. */
@@ -174,12 +174,12 @@ kbd{display:inline-grid;place-items:center;min-width:30px;height:30px;padding:0 
 .thing p{margin:0;color:var(--muted);font:500 15px/1.45 var(--kid)}
 .thing.new{position:relative}
 .thing.new::after{content:"NEW";position:absolute;top:14px;right:14px;padding:3px 8px;border-radius:999px;background:var(--sun);color:#1a1405;font:800 11px/1.4 system-ui,sans-serif;letter-spacing:.08em}
-details.more{border:3px solid #5fe0a4;border-radius:22px;background:var(--navy2);box-shadow:0 0 0 6px rgba(95,224,164,.12)}
-details.more>summary{display:flex;align-items:center;gap:12px;min-height:76px;padding:14px 24px;cursor:pointer;list-style:none;font:700 clamp(24px,3vw,30px) var(--kid);color:#8cf0c0}
+details.more{border:2px solid rgba(154,216,255,.32);border-radius:20px;background:var(--navy2);box-shadow:0 14px 36px rgba(0,0,0,.45)}
+details.more>summary{display:flex;align-items:center;gap:12px;min-height:72px;padding:14px 24px;cursor:pointer;list-style:none;font:700 clamp(22px,2.8vw,28px) var(--kid);color:#e2f1ff}
 details.more>summary::-webkit-details-marker{display:none}
-details.more>summary .q{display:grid;place-items:center;width:42px;height:42px;border-radius:50%;background:#5fe0a4;color:#062b1a}
-details.more>summary::after{content:"Tap to open";margin-left:auto;padding:6px 14px;border-radius:999px;background:#5fe0a4;color:#062b1a;font:700 15px var(--kid)}
-details.more[open]>summary::after{content:"Close"}
+details.more>summary .q{display:grid;place-items:center;width:38px;height:38px;border-radius:50%;background:#ffd27a;color:#10243e;font:700 18px var(--kid)}
+details.more>summary::after{content:"Tap to open";margin-left:auto;padding:6px 16px;border-radius:999px;background:rgba(154,216,255,.18);border:1px solid rgba(154,216,255,.35);color:#d9eeff;font:700 14px var(--kid)}
+details.more[open]>summary::after{content:"Close";background:rgba(255,210,122,.2);border-color:rgba(255,210,122,.4);color:var(--sun2)}
 .more-body{padding:0 24px 24px;display:grid;grid-template-columns:1fr 1fr;gap:18px}
 .more-body h3{margin:0 0 8px;font:700 20px var(--kid);color:var(--sun2)}
 .more-body p,.more-body li{color:var(--muted);font:500 16px/1.6 var(--kid)}

diff --git a/game/hardcore-rules.js b/game/hardcore-rules.js
@@ -5,14 +5,14 @@
   const WOODS = ['wood', 'cherrywood', 'sprucewood', 'pinewood'];
   const FLOWERS = ['poppy', 'daisy', 'sunflower', 'lavender'];
   const CONCRETES = ['concrete', 'whiteconcrete', 'redconcrete', 'yellowconcrete', 'blueconcrete', 'greenconcrete', 'purpleconcrete', 'pinkconcrete', 'blackconcrete'];
-  const BLOCKS = ['grass', 'dirt', 'stone', 'sand', 'wood', 'leaves', 'planks', 'brick', 'snow', 'glow', 'glass', 'water', 'orange', 'blue', 'cherrywood', 'sprucewood', 'pinewood', 'concrete', 'copperore', 'ironore', 'cherryplanks', 'spruceplanks', 'pineplanks', 'cherryleaves', 'whiteconcrete', 'redconcrete', 'yellowconcrete', 'blueconcrete'];
+  const BLOCKS = ['grass', 'dirt', 'stone', 'sand', 'wood', 'leaves', 'planks', 'brick', 'snow', 'glow', 'glass', 'water', 'orange', 'blue', 'cherrywood', 'sprucewood', 'pinewood', 'concrete', 'copperore', 'ironore', 'cherryplanks', 'spruceplanks', 'pineplanks', 'cherryleaves', 'whiteconcrete', 'redconcrete', 'yellowconcrete', 'blueconcrete', 'bookshelf'];
   BLOCKS.push(...FLOWERS,...CONCRETES.filter(id=>!BLOCKS.includes(id)));
   const INITIAL_BLOCKS = ['grass', 'dirt', 'stone', 'sand', 'wood', 'leaves', 'planks', 'water'];
   const CHARACTERS = ['macek', 'micco', 'eriksen', 'mullet', 'wingenbach', 'mcmichael'];
   const QUESTS = [
     { id: 'wood', title: 'Make a building tool', instruction: 'Collect 10 logs from trees. Craft a building axe.', character: 'micco', blocks: ['cherrywood', 'cherryplanks', 'cherryleaves', ...FLOWERS], animals: [], goal: 10 },
     { id: 'stone', title: 'Start a stone collection', instruction: 'Craft a building pick. Mine 8 stone blocks.', character: 'eriksen', blocks: ['sprucewood', 'spruceplanks', 'copperore', 'ironore'], animals: [], goal: 8 },
-    { id: 'house', title: 'Build your first house', instruction: 'Build a 5 by 5 floor, walls 3 blocks high, and a full roof. Leave one door gap 1 block wide and 2 blocks high.', character: 'mullet', blocks: ['pinewood', 'pineplanks', ...CONCRETES, 'glass', 'brick', 'orange', 'blue'], animals: ['cat'], goal: 1 },
+    { id: 'house', title: 'Build your first house', instruction: 'Build a 5 by 5 floor, walls 3 blocks high, and a full roof. Leave one door gap 1 block wide and 2 blocks high.', character: 'mullet', blocks: ['pinewood', 'pineplanks', ...CONCRETES, 'glass', 'brick', 'orange', 'blue', 'bookshelf'], animals: ['cat'], goal: 1 },
     { id: 'workshop', title: 'Build your workshop collection', instruction: 'Mine 6 copper ore and 4 iron ore. Craft 4 concrete blocks in any color.', character: 'wingenbach', blocks: ['glow', 'snow'], animals: ['horse', 'sheep', 'cow'], goal: 14 },
     { id: 'habitat', title: 'Build a home for fish', instruction: 'Build a 2 by 2 pond or glass tank. Place all 4 water blocks. Give it a solid floor and sides.', character: 'mcmichael', blocks: [], animals: ['fish'], goal: 1 }
   ];
@@ -23,6 +23,7 @@
     cherryplanks: { name: '4 cherry planks', costs: { cherrywood: 1 }, output: { cherryplanks: 4 }, after: 'wood' },
     spruceplanks: { name: '4 spruce planks', costs: { sprucewood: 1 }, output: { spruceplanks: 4 }, after: 'stone' },
     pineplanks: { name: '4 pine planks', costs: { pinewood: 1 }, output: { pineplanks: 4 }, after: 'house' },
+    bookshelf: { name: 'Bookshelf', costs: { wood: 1, planks: 3 }, output: { bookshelf: 1 }, after: 'house' },
     concrete: { name: '4 concrete', costs: { stone: 2, sand: 2 }, output: { concrete: 4 }, after: 'house' },
     whiteconcrete: { name: '4 white concrete', costs: { stone: 2, sand: 2 }, output: { whiteconcrete: 4 }, after: 'house' },
     redconcrete: { name: '4 red concrete', costs: { stone: 2, sand: 2 }, output: { redconcrete: 4 }, after: 'house' },
